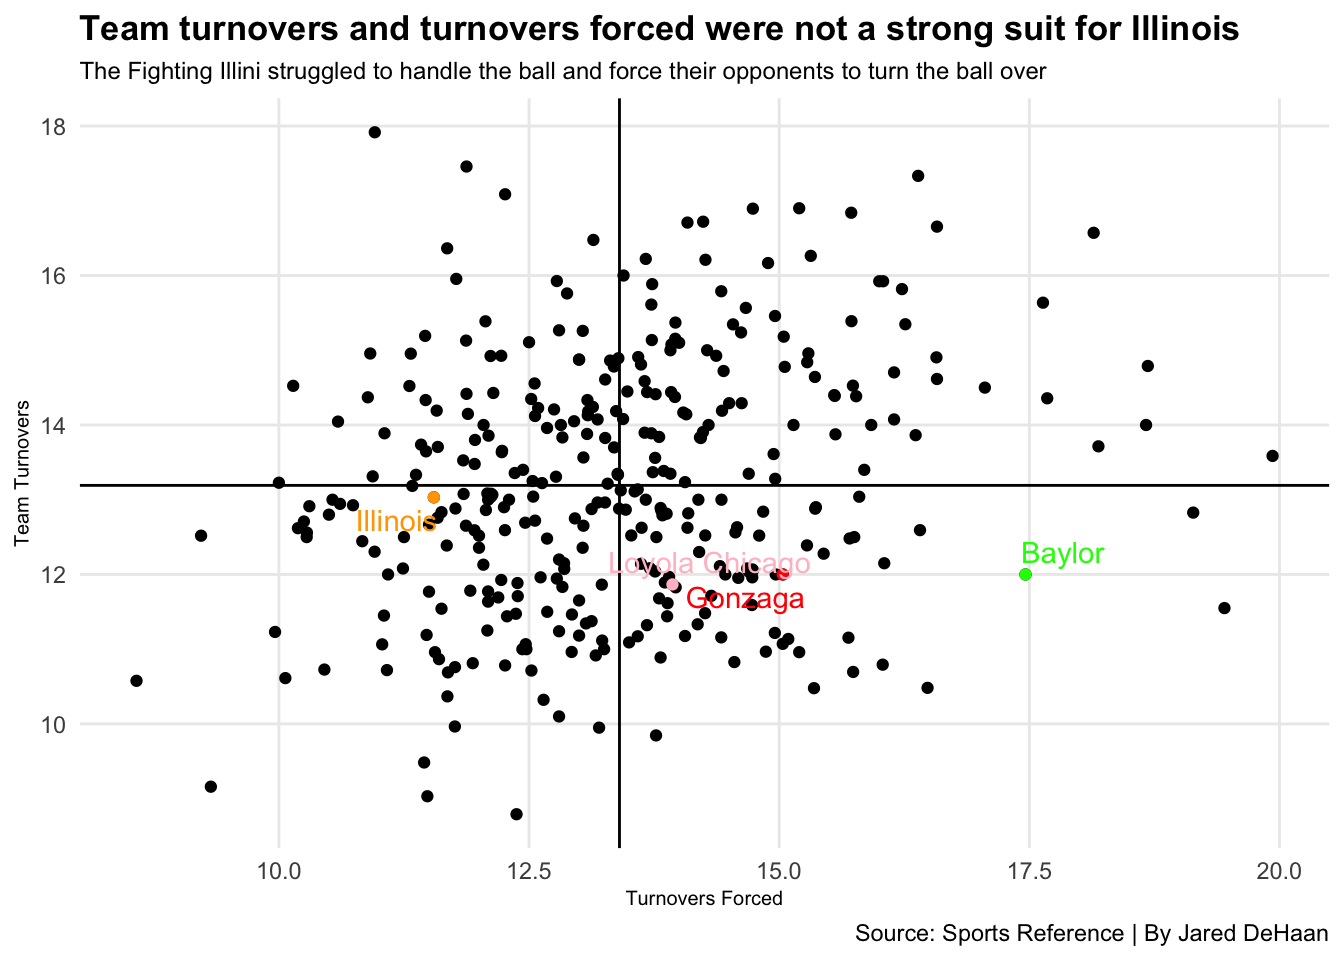
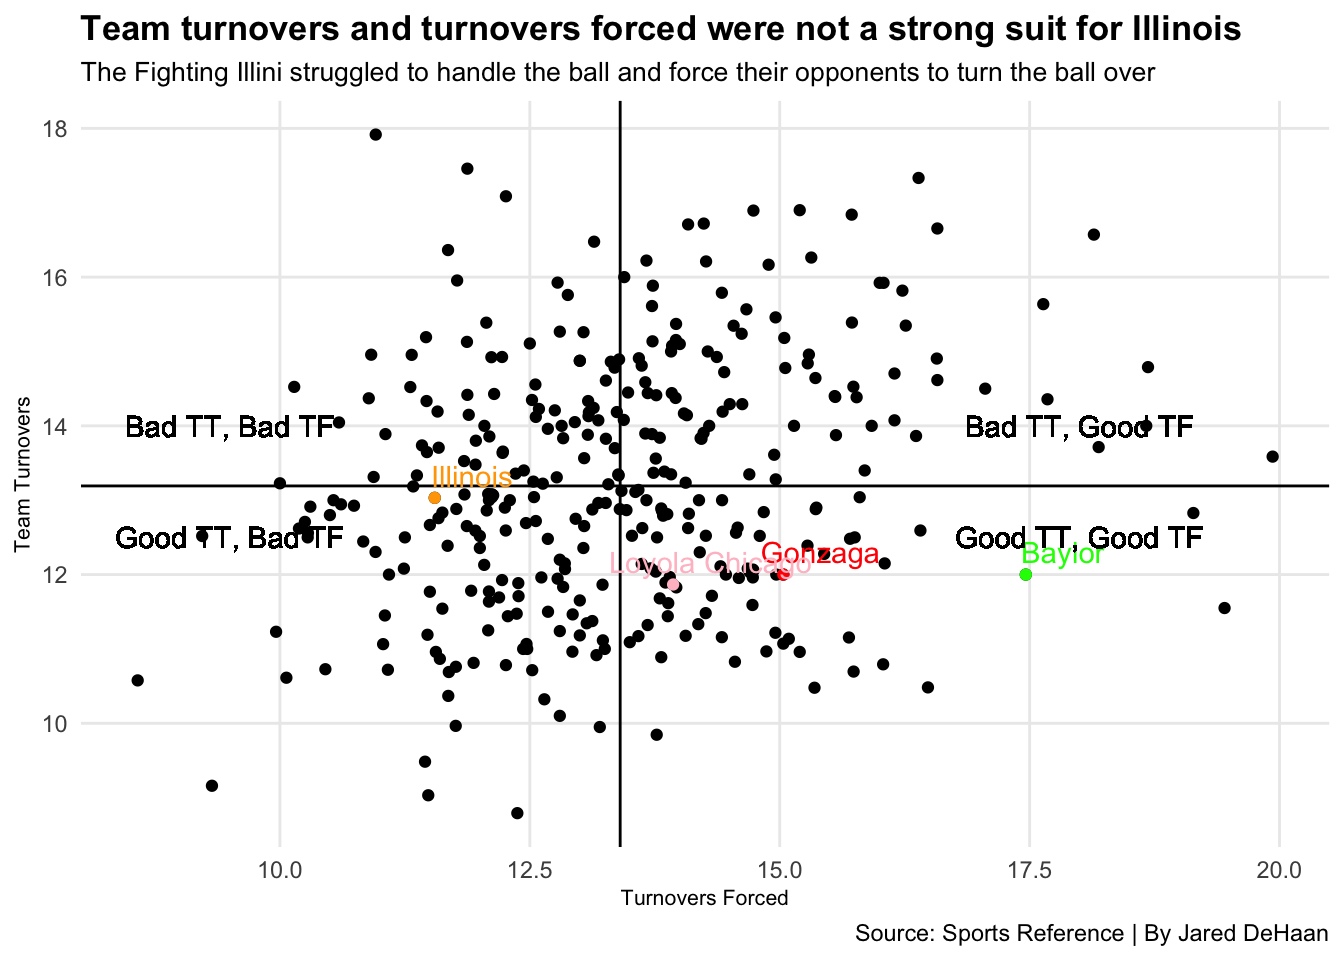
Update

diff --git a/2021/03/27/illinois-missed-their-chance/index.html b/2021/03/27/illinois-missed-their-chance/index.html
@@ -62,7 +62,7 @@
 
   <article class="article">
     
-    <span class="article-duration">4 min read</span>
+    <span class="article-duration">6 min read</span>
     
 
     <h1 class="article-title">Illinois missed their chance</h1>
@@ -129,7 +129,7 @@ library(ggrepel)</code></pre>
 ##   X21 = col_logical()
 ## )
 ## ℹ Use `spec()` for the full column specifications.</code></pre>
-<p>I noticed I had 5 columns that were not needed so I used select() to take those 5 columns and remove them from both of my data frames</p>
+<p>I noticed I had 5 columns that were not needed so I used select() to take those 5 columns and remove them from both of my data frames.</p>
 <pre class="r"><code>collegebballstats &lt;- collegebballstats %&gt;% select(-X9, -X12, -X15, -X18, -X21)
 oppbballstats &lt;- oppbballstats %&gt;% select(-X9, -X12, -X15, -X18, -X21)</code></pre>
 <p>The two data sets I’ll be using show the basic season stats of the team while the other shows the seasons stats of their opponents. I got this data for this season’s stats from the Sports Reference’s college basketball site. I used left_join to merge the two data sets together. I’ll be mainly focusing on turnovers by Illinois compared to the rest of the NCAA as well as Illinois’ free throw percentage in comparison to other teams this season.</p>
@@ -142,10 +142,12 @@ oppbballstats &lt;- oppbballstats %&gt;% select(-X9, -X12, -X15, -X18, -X21)</co
 zag &lt;- turnovers %&gt;% filter(School == &quot;Gonzaga NCAA&quot;)
 bay &lt;- turnovers %&gt;% filter(School == &quot;Baylor NCAA&quot;)
 loy &lt;- turnovers %&gt;% filter(School == &quot;Loyola (IL) NCAA&quot;)</code></pre>
+<p>To find the vline (x intercept) and hline (y intercept). I found the Average Turnovers forced by taking the mean of the TurnoversForcedpergame for all 356 teams. I also found the teams’ Average turnovers per game by taking the mean of the Turnoverspergame for all 356 teams.</p>
 <pre class="r"><code>avgtoforced &lt;- turnovers %&gt;% summarise(
     AvgTOforced = mean(TurnoversForcedpergame))
 avgtopergame &lt;- turnovers %&gt;% summarise(
     Avgtopergame = mean(Turnoverspergame))</code></pre>
+<p>The first question we’ll look at is how good was Illinois compared to the rest of the NCAA. I will also pull 3 other teams from the NCAA to compare to Illinois. Those teams are Gonzaga, Baylor and Loyola Chicago.</p>
 <pre class="r"><code>ggplot(turnovers, aes(x=`TurnoversForcedpergame`, y=`Turnoverspergame`)) +
   geom_vline(xintercept = 13.40379) +
   geom_hline(yintercept = 13.19193) +
@@ -154,8 +156,8 @@ geom_point(color=&quot;black&quot;) +
   theme_minimal() + 
   theme(
     plot.title = element_text(size = 13, face = &quot;bold&quot;),
-    axis.title = element_text(size = 7.5), 
-    plot.subtitle = element_text(size=9), 
+    axis.title = element_text(size = 8), 
+    plot.subtitle = element_text(size=10), 
     panel.grid.minor = element_blank()
     ) +
   geom_point(data=ill, aes(x=`TurnoversForcedpergame`,y=`Turnoverspergame`), color=&quot;orange&quot;) + 
@@ -165,8 +167,13 @@ geom_point(color=&quot;black&quot;) +
   geom_point(data=bay, aes(x=`TurnoversForcedpergame`,y=`Turnoverspergame`), color=&quot;green&quot;) + 
   geom_text_repel(data=bay, aes(x=`TurnoversForcedpergame`, y=`Turnoverspergame`, label=&quot;Baylor&quot;), color=&quot;green&quot;) + 
    geom_point(data=loy, aes(x=`TurnoversForcedpergame`,y=`Turnoverspergame`), color=&quot;pink&quot;) + 
-  geom_text_repel(data=loy, aes(x=`TurnoversForcedpergame`, y=`Turnoverspergame`, label=&quot;Loyola Chicago&quot;), color=&quot;pink&quot;) </code></pre>
-<p><img src="/2021/03/27/illinois-missed-their-chance/index_files/figure-html/unnamed-chunk-8-1.png" width="672" /></p>
+  geom_text_repel(data=loy, aes(x=`TurnoversForcedpergame`, y=`Turnoverspergame`, label=&quot;Loyola Chicago&quot;), color=&quot;pink&quot;) +
+  geom_text(aes(x=9.5, y=14, label=&quot;Bad TT, Bad TF&quot;)) +
+  geom_text(aes(x=9.5, y=12.5, label=&quot;Good TT, Bad TF&quot;)) +
+  geom_text(aes(x=18, y=14, label=&quot;Bad TT, Good TF&quot;)) +
+  geom_text(aes(x=18, y=12.5, label=&quot;Good TT, Good TF&quot;)) </code></pre>
+<p><img src="/2021/03/27/illinois-missed-their-chance/index_files/figure-html/unnamed-chunk-8-1.png" width="672" />
+If you look at the graph, you’ll see that both 1 seeds seeded ahead of Illinois are far into the Good Team Turnovers and Good Turnovers Forced section. This means that they are good at handling the ball and do a very good job of forcing their opponents to give up the ball. Loyola Chicago is in this category as well. If you forgot from earlier, Loyola is the team that beat Illinois in the Round of 32 in the NCAA Tournament. So these three times are in the Good, Good section. Where is Illinois? If you look to the left of Baylor, Gonzaga and Loyola Chicago, you will find Illinois in the Good Team Turnovers and Bad Turnovers Forced section.They are hovering the line of Bad, Bad. This seems highly odd that the team ranked 2nd in the nation would be hovering on the Bad Team Turnovers and Bad Turnovers Forced line. This leads me to think that Illinois may have overperformed this year based on this graphic.</p>
 
     </div>
   </article>
